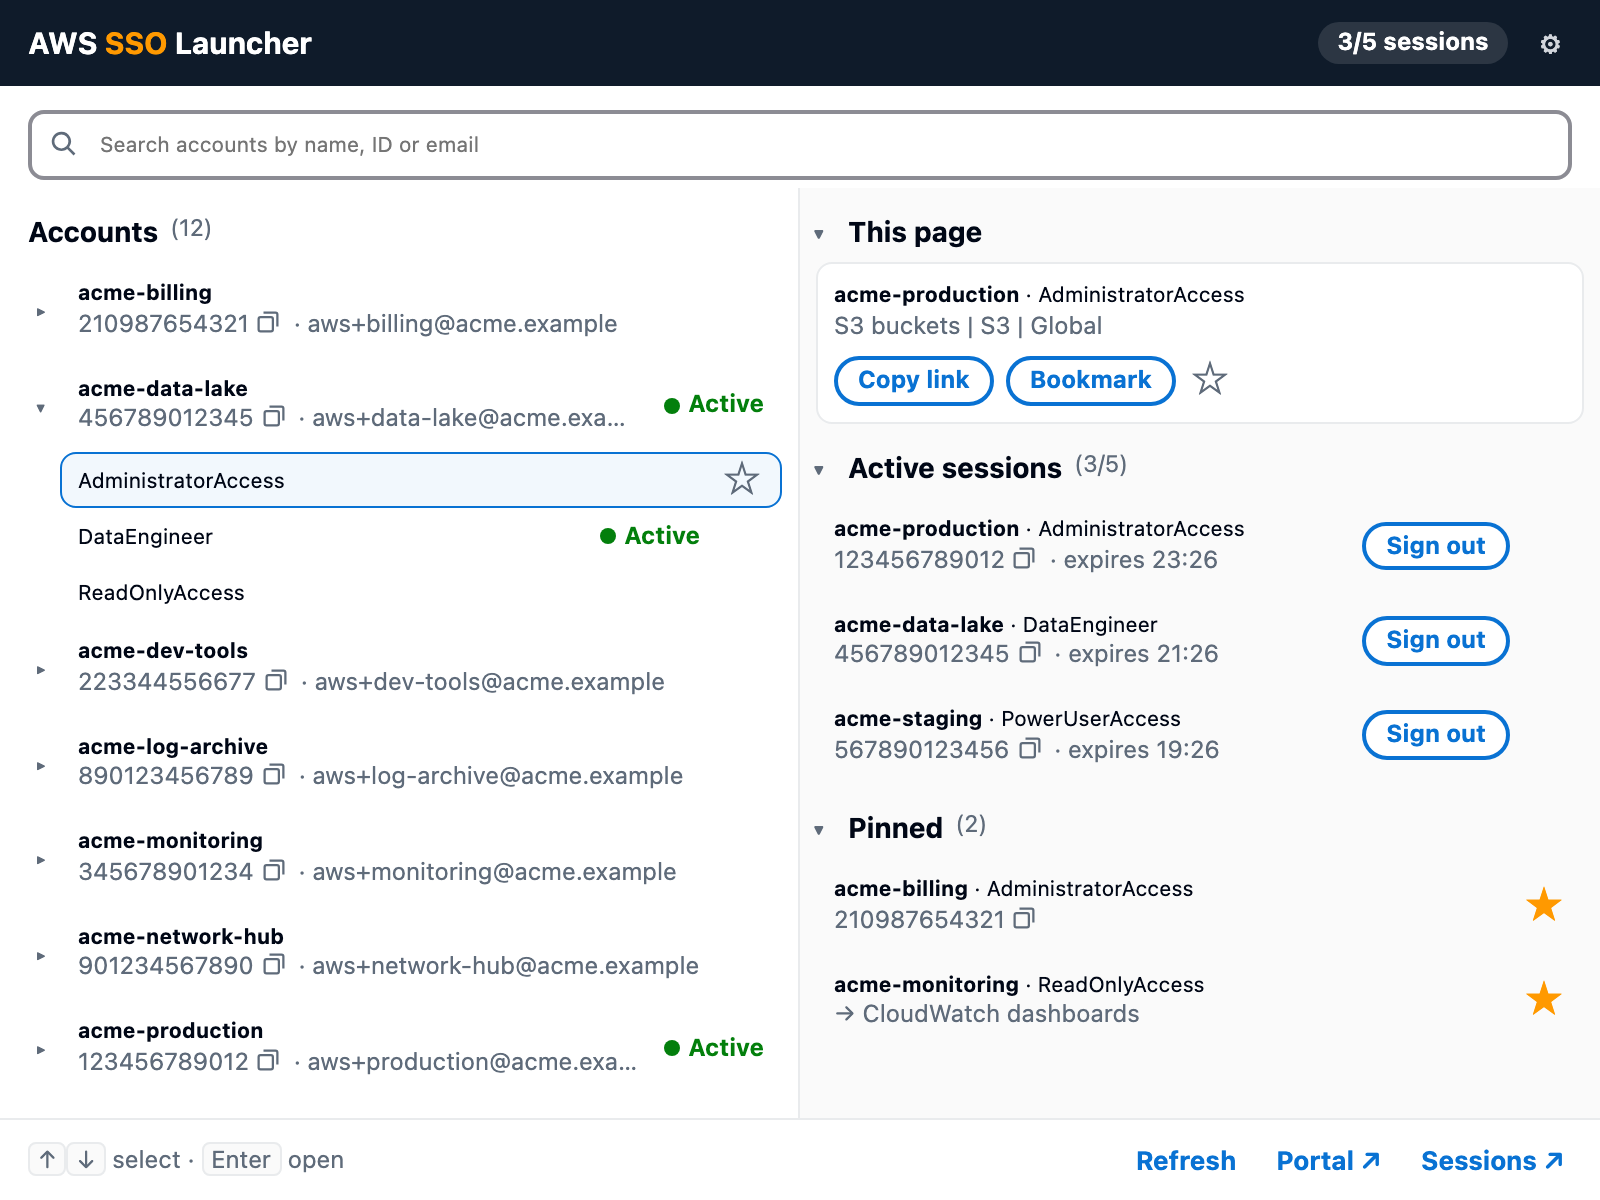
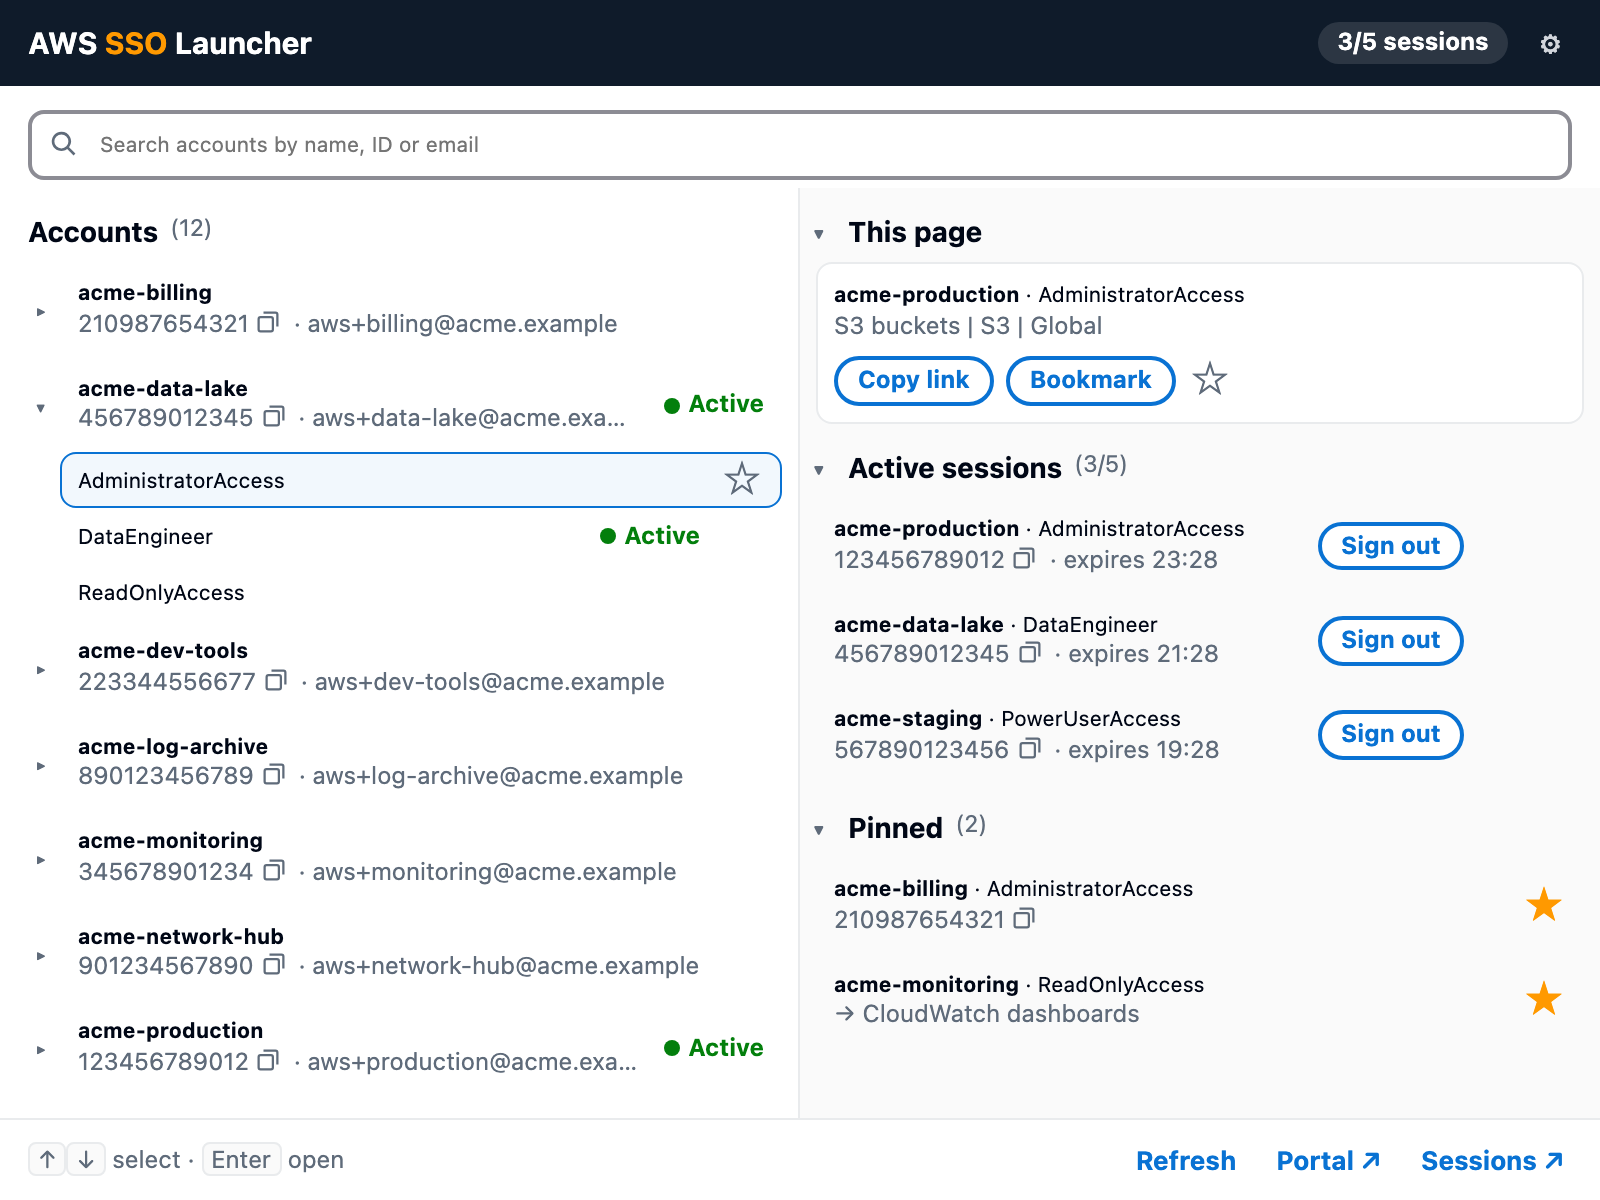
Align the Sign out buttons of pinned and unpinned sessions

Changed region(s): [[0.8125, 0.4317, 0.9375, 0.555], [0.8125, 0.5858, 0.9375, 0.6475]]

diff --git a/launcher.js b/launcher.js
@@ -210,7 +210,8 @@ function sessionRow(s) {
     pin && renaming && samePin(renaming, pin) ? renameField(pin)
       : info(sessionLabel(s), role, [...accountIdWithCopy(accountId), ` · expires ${time(s.expiry)}`], s.principal_arn),
     Object.assign(button("Sign out", "", ev => { ev.stopPropagation(); signOut(s); }), { title: "Sign out of this session (Delete)" }),
-    pin ? renameButton(pin) : "",
+    // Unpinned: an invisible ✎ keeps the Sign out buttons aligned.
+    pin ? renameButton(pin) : el("button", { className: "rename-btn", textContent: "✎", disabled: true, ariaHidden: "true", style: "visibility: hidden" }),
     pinButton({ accountId, role }, `${sessionName(s)} ${role}`));
 }
 
